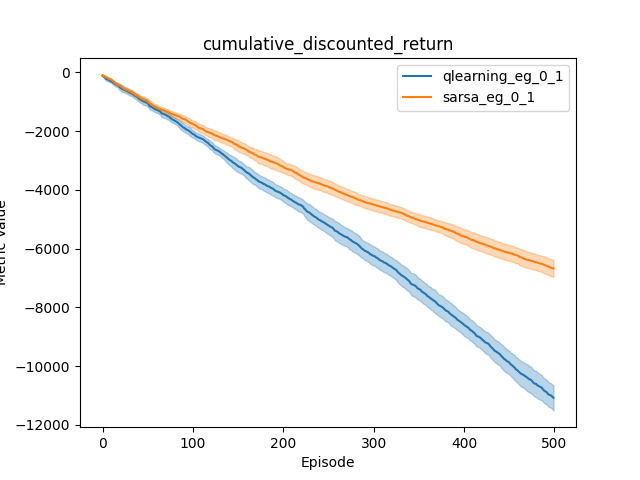
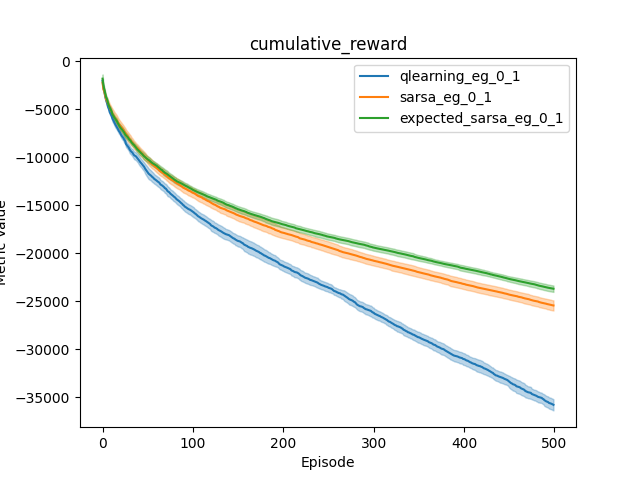
refactor: clean for separation of supervised and reinforcement repos

diff --git a/reinforcement_learning/experiments/training_configs.py b/reinforcement_learning/experiments/training_configs.py
@@ -1,12 +1,11 @@
-from configs import CliffWalkingConfig, FrozenLakeConfig, AgentConfig, TrainingConfig
+from configs import CliffWalkingConfig, AgentConfig, TrainingConfig
 
-from reinforcement_learning.low_level_implementations.algorithms.agents import QLearningAgent
-from reinforcement_learning.low_level_implementations.algorithms.agents import SarsaAgent
-from reinforcement_learning.low_level_implementations.algorithms.agents import ExpectedSarsaAgent
-from reinforcement_learning.low_level_implementations.algorithms.agents import DoubleQLearningAgent
+from algorithms.agents import QLearningAgent
+from algorithms.agents import SarsaAgent
+from algorithms.agents import ExpectedSarsaAgent
+from algorithms.agents import DoubleQLearningAgent
 
-from reinforcement_learning.low_level_implementations.algorithms.action_selection import EpsilonGreedySelector
-from reinforcement_learning.low_level_implementations.algorithms.action_selection import SoftmaxSelector
+from algorithms.action_selection import EpsilonGreedySelector
 
 # =============================================================================
 # Define training configs
@@ -34,30 +33,30 @@ ENVIRONMENT_CONFIGS = [
 
 # Define agent configs
 AGENT_CONFIGS = [
-    # AgentConfig(
-    #     agent_type=QLearningAgent,
-    #     learning_rate=0.1,
-    #     discount_factor=0.9,
-    #     action_selector=EpsilonGreedySelector(epsilon=0.1, decay_scheme=None)
-    # ),
-    # AgentConfig(
-    #     agent_type=SarsaAgent,
-    #     learning_rate=0.1,
-    #     discount_factor=0.9,
-    #     action_selector=EpsilonGreedySelector(epsilon=0.1, decay_scheme=None)
-    # ),
     AgentConfig(
-        agent_type=DoubleQLearningAgent,
+        agent_type=QLearningAgent,
         learning_rate=0.1,
         discount_factor=0.9,
         action_selector=EpsilonGreedySelector(epsilon=0.1, decay_scheme=None)
     ),
     AgentConfig(
-        agent_type=ExpectedSarsaAgent,
+        agent_type=SarsaAgent,
         learning_rate=0.1,
         discount_factor=0.9,
         action_selector=EpsilonGreedySelector(epsilon=0.1, decay_scheme=None)
     ),
+    # AgentConfig(
+    #     agent_type=DoubleQLearningAgent,
+    #     learning_rate=0.1,
+    #     discount_factor=0.9,
+    #     action_selector=EpsilonGreedySelector(epsilon=0.1, decay_scheme=None)
+    # ),
+    # AgentConfig(
+    #     agent_type=ExpectedSarsaAgent,
+    #     learning_rate=0.1,
+    #     discount_factor=0.9,
+    #     action_selector=EpsilonGreedySelector(epsilon=0.1, decay_scheme=None)
+    # ),
 ]
 
 # Define training configs

diff --git a/reinforcement_learning/experiments/evaluation.py b/reinforcement_learning/experiments/evaluation.py
@@ -4,7 +4,6 @@ import pickle
 from enum import Enum
 import os
 from collections import defaultdict
-import gymnasium as gym
 from gymnasium.utils.save_video import save_video
 
 
@@ -25,19 +24,20 @@ EVAL_NAME = "cliff_walker"
 
 # Specify runs to inspect
 RUN_DIRECTORIES = {
-    "qlearning_eg_0_1": ".cache/6873c2c5-07b5-4f85-a71d-a37dedfcc7df",
-    "sarsa_eg_0_1": ".cache/beec2c12-8ec0-4319-9db5-57b353d838bf",
+    "qlearning_eg_0_1": ".cache/5c006358-ed94-43e0-a0fb-13a540f2df56",
+    "sarsa_eg_0_1": ".cache/38691845-800c-4ba9-8a3a-36c73d61ca36",
+    "expected_sarsa_eg_0_1": ".cache/04d49c26-9ffa-4662-9f2e-9b7af2c022a3",
 }
 
 METRICS_DIRECTORIES = {
     run_name: f"{run_directory}/data/metrics" for run_name, run_directory in RUN_DIRECTORIES.items()
 }
 
-X_LIMIT = 4000    # None for no limit
+X_LIMIT = 500    # None for no limit
 
 MAKE_VIDEOS = True
 
-mid_training_episode = 2000    # If None, calculates mid-point intermediate episode
+mid_training_episode = 500    # If None, calculates mid-point intermediate episode
 
 
 class EvalDirectories(Enum):

diff --git a/reinforcement_learning/experiments/training.py b/reinforcement_learning/experiments/training.py
@@ -1,15 +1,13 @@
-import gymnasium as gym
-from gymnasium.envs.toy_text.frozen_lake import generate_random_map
 import warnings    # There's an annoying warning in matplotlib to suppress
 import os
 import pandas as pd
 
 from plotting import (plot_q_table, plot_training_metrics_multiple_trials, plot_v_table_with_arrows)
 
-from reinforcement_learning.low_level_implementations.algorithms.agents import QLearningAgent
-from reinforcement_learning.low_level_implementations.algorithms.agents import SarsaAgent
-from reinforcement_learning.low_level_implementations.algorithms.agents import ExpectedSarsaAgent
-from reinforcement_learning.low_level_implementations.algorithms.agents import DoubleQLearningAgent
+from algorithms.agents import QLearningAgent
+from algorithms.agents import SarsaAgent
+from algorithms.agents import ExpectedSarsaAgent
+from algorithms.agents import DoubleQLearningAgent
 
 from metrics import (EpisodeReward, EpisodeLength, DiscountedReturn, CumulativeReward, CumulativeDiscountedReturn)
 from training_configs import TRAINING_CONFIGS

diff --git a/reinforcement_learning/algorithms/agents.py b/reinforcement_learning/algorithms/agents.py
@@ -5,6 +5,7 @@ import os
 # TODO: Add save and load methods to all agents - replace Q table save with full agent pickle save
 # TODO: Double Q-learning save and load methods temporary - averages the two Q tables
 
+
 class Agent:
     """Superclass for reinforcement learning agents."""
 
